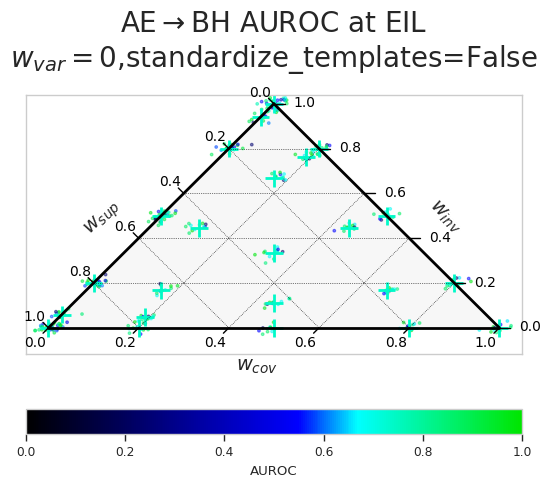
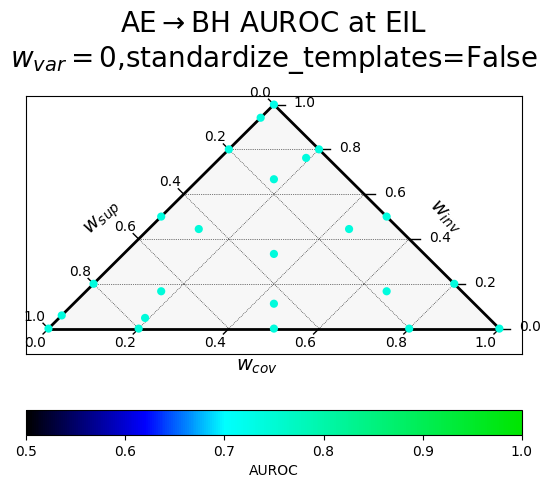
update figures

diff --git a/content-blog/vincs.md b/content-blog/vincs.md
@@ -51,7 +51,7 @@ At first CRC-TPC may appear theoretically unmotivated, since there is no obvious
 Here we show that CRC-TPC is better motivated than it first appears. Recall that the top principal component $\mathbf{w^\*}$ of a data matrix $X \in \mathbb{R}^{n \times d}$ is the direction of maximal variance in $X$. Formally, it is the solution to the constrained optimization problem:
 $$
 \begin{equation}
-    \mathbf{w^\*} = \mathop{\mathrm{argmax }}\_{\substack{\\\\[1pt]||\mathbf{w}||\_2\,=\,1}} \mathbf{w}^{T}\mathrm{Cov}(X) \mathbf{w},
+    \mathbf{w^\*} = \mathop{\mathrm{argmax }}\_{\substack{\\\\[1pt]||\mathbf{w}||\_2\=1}} \mathbf{w}^{T}\mathrm{Cov}(X) \mathbf{w},
 \end{equation}
 $$
 where $\mathrm{Cov}(X)$ is the covariance matrix of $X$. By Equation 1, we can view $X$ as the *difference* between two data matrices, $X^{+}$ and $X^{-}$, corresponding to the positive and negative elements of the contrast pairs respectively. Now recall the familiar identity that, for scalar random variables $A$ and $B$,
@@ -157,9 +157,6 @@ $$
 
 This is the eigenvalue equation for $\mathbf{A}\_{\mathrm{VINCS}}$, where $\lambda$ is an eigenvalue and $\mathbf{w^\*}$ is the corresponding eigenvector. We've shown that the stationary points of the Lagrangian are precisely the eigenvectors of $\mathbf{A}\_{\mathrm{VINCS}}$ and their associated eigenvalues. Note that since our primal problem is equivalent to maximizing the Rayleigh quotient $R(\mathbf{A}\_{\mathrm{VINCS}}, \mathbf{w})$, this also follows from the Rayleigh-Ritz theorem. It follows that the global maximum is the eigenvector corresponding to the algebraically largest eigenvalue. Note that unlike a covariance matrix, $\mathbf{A}\_{\mathrm{VINCS}}$ need not be positive semi-definite, and the leading eigenvalue may be negative. 
 
-$\blacksquare$
-
-
 Importantly, eigenvectors are only defined up to an arbitrary choice of sign. This means that without an additional constraint, we don't know how to *orient* $\mathbf{w^\*}$ so that positive values of $\langle \mathbf{w^\*}, \cdot \rangle$ correspond to true statements and negative values correspond to false statements.
 
 #### Implementation
@@ -167,7 +164,7 @@ Since we are only interested in the dominant eigenvector, we can use an algorith
 
 Furthermore, since $\mathbf{A}\_{\mathrm{VINCS}}$ only depends on covariance statistics, it can be computed incrementally over a large dataset with $O(d^2)$ memory usage. We can also compute $\mathbf{A}\_{\mathrm{VINCS}}$ over a data stream with covariance statistics that change over time, using exponential moving averages of sample covariance matrices. While we don't compute $\mathbf A\_\text{VINCS}$ incrementally here, this would make it efficient for use during neural network training.
 
-We also use [LEACE](https://arxiv.org/abs/2306.03819) to erase linear information about which element of the contrast pair an activation comes from, and information about which paraphrase was used.
+We also use [LEACE](https://arxiv.org/abs/2306.03819) to erase linear information about which element of the contrast pair an activation comes from, and information about which paraphrase was used. The sign ambiguity is resolved using the AUROC on a set of labeled examples. We always evaluate the probe with "full" ensembling, meaning we take the difference in scores for contrast pairs and average over paraphrases. Note that ensembling has a large effect on probe performance, and at least taking the difference in scores is often necessary for good performance.
 
 ## Results
 
@@ -188,35 +185,41 @@ Each row corresponds to a different way of producing the paraphrases, with "stan
 #### At the earliest informative layer (EIL)
 | ![Image 1](/images/blog/vincs/ternary_AE_BH_wvar_0_standardize_templates_False_eil.png) | ![Image 2](/images/blog/vincs/ternary_AE_BH_wvar_1_standardize_templates_False_eil.png) |
 |:------------------------------------------:|:------------------------------------------:|
-| Without variance term, standardized templates | With variance term, standardized templates |
+| Without variance term, random templates | With variance term, random templates |
 
 | ![Image 3](/images/blog/vincs/ternary_AE_BH_wvar_0_standardize_templates_True_eil.png) | ![Image 4](/images/blog/vincs/ternary_AE_BH_wvar_1_standardize_templates_True_eil.png) |
 |:------------------------------------------:| :------------------------------------------:|
-| Without variance term, random templates | With variance term, random templates |
+| Without variance term, standardized templates | With variance term, standardized templates |
 
 #### At all layers
-| ![Image 5](/images/blog/vincs/ternary_AE_BH_wvar_0_standardize_templates_True.png) | ![Image 6](/images/blog/vincs/ternary_AE_BH_wvar_1_standardize_templates_True.png) |
+| ![Image 5](/images/blog/vincs/ternary_AE_BH_wvar_0_standardize_templates_False.png) | ![Image 6](/images/blog/vincs/ternary_AE_BH_wvar_1_standardize_templates_False.png) |
 |:------------------------------------------:|:------------------------------------------:|
-| Without variance term, standardized templates | With variance term, standardized templates |
+| Without variance term, random templates | With variance term, random templates |
 
 | ![Image 7](/images/blog/vincs/ternary_AE_BH_wvar_0_standardize_templates_True.png) | ![Image 8](/images/blog/vincs/ternary_AE_BH_wvar_1_standardize_templates_True.png)
 |:------------------------------------------:| :------------------------------------------:|
-| Without variance term, random templates | With variance term, random templates |
+| Without variance term, standardized templates | With variance term, standardized templates |
 
 ### Analysis
 
-- All of the effect sizes are small and noisy
+- All of the effect sizes are small and noisy.
 
 - Variance is an important criterion in this setup! We had originally suspected that variance wasn't useful because it's unprincipled.
 
-- At EIL things are pretty overdetermined - all the ELK probe hyperparameters work well, as long as $w\_{var}=1$
+- At EIL things are pretty overdetermined - all the ELK probe hyperparameters work well, as long as $w\_{var}=1$.
 
 - When looking at all layers, we can see that the negation consistency term is harmful, though having a variance term helps guide the probe back in the right direction.
 
-- Paraphrase invariance is useful
+- Paraphrase invariance might be slightly useful.
 
 - The supervision term is somewhat useful, though it seems to be no better than, or perhaps marginally worse than, a variance term (comparing methods with only a paraphrase invariance term and a variance/supervision term).
 
-- (Looking at standardized templates averaged over all layers) The best hyperparameter settings (all the ones involving variance and no negation consistency; 0.648) only marginally outperform the difference-in-means reporter ($w\_{sup}=1$, everthing else 0 $\rightarrow$ 0.63 transfer AUROC) and the CRC reporter ($w\_{cov}=w\_{var}=0.5$ and everything else 0 $\rightarrow$ 0.611 transfer AUROC).
+- (Looking at standardized templates averaged over all layers) The best hyperparameter settings (all the ones involving variance and no negation consistency; 0.648) only marginally outperform the difference-in-means reporter ($w\_{sup}=1$, everthing else 0 $\rightarrow$ 0.63 transfer AUROC) and the CRC reporter ($w\_{cov}=w\_{var}=1$ and everything else 0 $\rightarrow$ 0.611 transfer AUROC).
 
-- [Burns et al. 2023](https://arxiv.org/abs/2312.09390) found paraphrase invariance to be unhelpful for eliciting latent knowledge in the weak-to-strong generalization setting, which is in conflict with our weak results. Additionally, the reason to expect paraphrase invariance to work better seems more likely to be true for future, more capable models, making it worth reinvestigating in the future.
+## Conclusion
+
+We have introduced VINC-S, a method for eliciting latent knowledge from language models that generalizes CRC-TPC to include paraphrase invariance and supervision. We have shown that VINC-S can be robustly and efficiently learned using eigendecomposition. However, our empirical results fail to convincingly show appreciable improvements over the difference-in-means reporter and the CRC reporter on the Quirky Models benchmark when leveraging these additional terms.
+
+[Burns et al. 2023](https://arxiv.org/abs/2312.09390) found paraphrase invariance to be unhelpful for eliciting latent knowledge in the weak-to-strong generalization setting, which is some evidence that it won't be useful in general. However, the reason to expect paraphrase invariance to work better seems more likely to be true for future, more capable models, making it worth reinvestigating in the future.
+
+Our code can be found [here](https://github.com/EleutherAI/elk-generalization/tree/81d98938267e209264830eb5c4796487787c6e2b).
